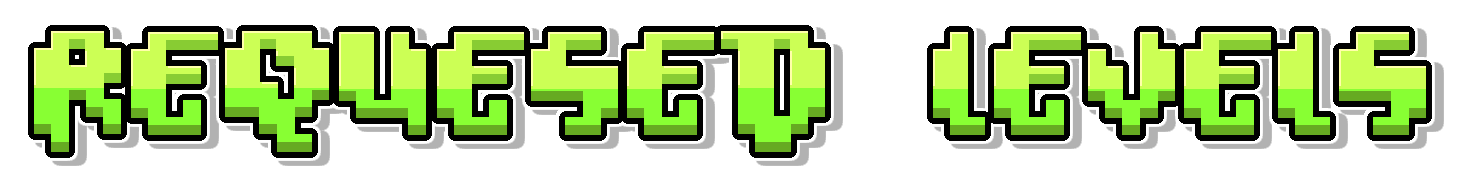
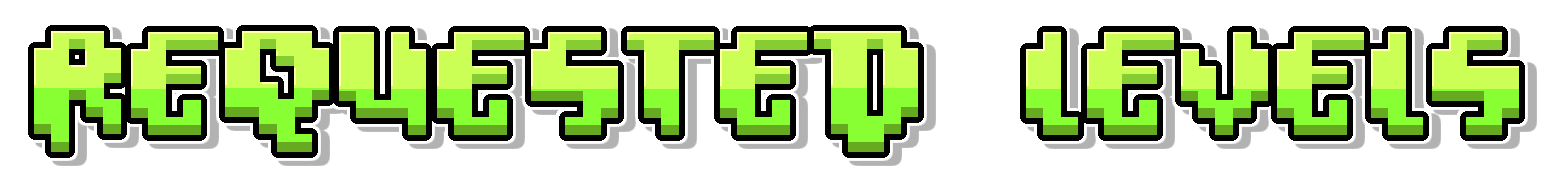
Added more python requirements and Python Install Guide, deleted any .venv related and fixed the "requesed levels" on the title.png.

diff --git a/README.md b/README.md
@@ -23,15 +23,14 @@ Here're some of the project's best features:
 *   Similar UI from Geometry Dash Online levels
 *   Easier for the creator and the viewer to play and send levels
 *   Automatic CloudFlare Tunnel Link changer
+*   Easy to use and install
 
 <h2>🛠 Installation Steps:</h2>
 
-<p>To use the aplication, you need to install cloudflared in your pc, to do this, dowload it via command(windows or MacOs) or via link</p>
+
+<p>1: Downloading the CloudFlare via command on the system</p>
 
 [CloudFlared Files](https://pkg.cloudflare.com/index.html)
-
-
-<p>Downloading the CloudFlare via command on the system</p>
 
 <p>Windows:</p>
 
@@ -48,16 +47,33 @@ brew install cloudflared
 
 [https://pkg.cloudflare.com/index.html]( https://pkg.cloudflare.com/index.html)
 
-### You dont need a account and python installed (Because of the virtual env)
-  
+<p>2: Installing Python and Libs</p>
+
+<p>Download Python from python.org (Version 3.8 and above are recomended)</p>
+
+[https://www.python.org/downloads/](https://www.python.org/downloads/)
+
+<p>Download Required Libs</p>
+
+```
+cd path/to/your/directory/
+
+pip install requirements.txt
+
+```
+
+<h2>⚙ How to Execute the App:</h2>
+
+<p>You can run the **serverInterface.py** with **python.exe** or using the **run.bat** file</p>
   
 <h2>💻 Built with</h2>
 
 Technologies used in the project:
 
-*   Python
+*   [Python 3](https://www.python.org/downloads/)
+*   [Flask FrameWork](https://flask.palletsprojects.com/en/stable/installation/)
 *   [TikTok Live Lib](https://pypi.org/project/TikTokLive/)
-*   CloudFlare Quick Tunnels
+*   [CloudFlare Quick Tunnels](https://developers.cloudflare.com/cloudflare-one/networks/connectors/cloudflare-tunnel/do-more-with-tunnels/trycloudflare/)
 *   HTML + CSS + JavaScript
 
 ### Made with 💖 by Zumbisinho
